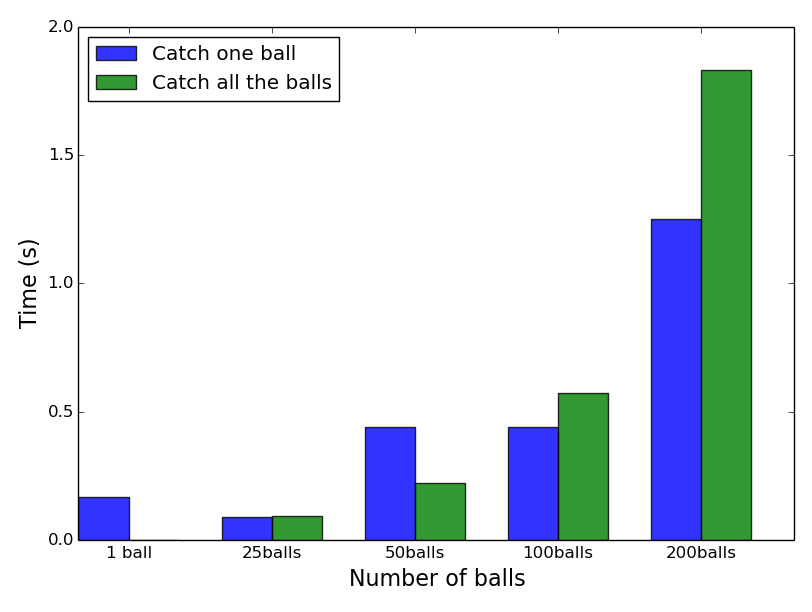
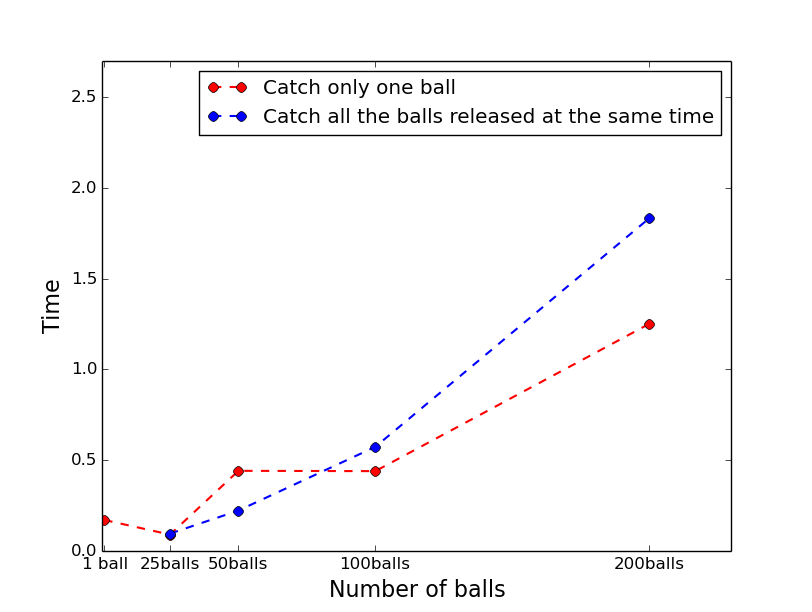
Michael's pass of the results section

diff --git a/results.tex b/results.tex
@@ -15,11 +15,11 @@ In this section we present our experimental results in four parts.
 
 We use our encoding to solve PDDL+ planning problems with a parallel iterative deepening technique, widely used in SAT-based planning approaches~\cite{nab02,rin06}. The top-level algorithm encodes and solves $n$ SMT encodings simultaneously, solving the planning problem for horizon lengths $1,2,3,4,...,n$. In this case, horizon length corresponds to number of happenings. If a formula is found satisfiable, then a plan has been found and the planner terminates. If a formula is found unsatisfiable, then an encoding is made for the next shortest horizon length, so that there are always $n$ SMT instances being solved. The SMT solver we use is z3~\cite{dem08}.
 
-We compare our approach (called SMTPlan) against existing PDDL+ planner UPMurphi~\cite{upmurphi}, and with dReach~\cite{bryce}, using the SMT solver dReal~\cite{gao12}, on domains both with and without events\footnote{We considered domains without events as we wanted to show the comparison with dReach which does not handle domains including events}. We use the \textit{generator} and \textit{car} domains~\cite{bogomolov14}. The experiments were run using 8GB of RAM and a 30 minute timeout. All test domains and problems are available at: \textit{kcl-planning.github.io/SMTPlan}.
+We compare our approach (called SMTPlan) against existing PDDL+ planner UPMurphi~\cite{upmurphi}, and with dReach~\cite{bryce}, using the SMT solver dReal~\cite{gao12}, on domains both with and without events\footnote{We considered domains without events as we wanted to show the comparison with dReach which does not handle domains including events.}. We use the \textit{generator} and \textit{car} domains~\cite{bogomolov14}. The experiments were run using 8GB of RAM and a 30 minute timeout. All test domains and problems are available at: \textit{kcl-planning.github.io/SMTPlan}.
 
-The generator domain is a PDDL+ benchmark problem that revolves around refueling a diesel-powered generator, which has to run for a given duration without overflowing or running dry. To test scalability the number of tanks is increased while decreasing the initial fuel level.
+The generator domain is a PDDL+ benchmark problem that revolves around refueling a diesel-powered generator, which has to run for a given duration without overflowing or running dry. To test scalability the number of tanks is increased while decreasing the initial fuel level, so that all tanks are required.
 
-We consider four versions of this domain: linear, simplified-nonlinear (the same used in ~\cite{bryce}), nonlinear with events, and the Torricelli nonlinear~\cite{howey2003val}. Note that the latter version uses the Torricelli's Law (which is too complex for dReach), and hence the fuel level in a refueling tank ($V_{fuel}$) is calculated by:
+We consider four versions of this domain: linear, simplified-nonlinear (the same used in~\cite{bryce}), nonlinear with events, and the Torricelli nonlinear~\cite{howey2003val}. Note that the latter version uses the Torricelli's Law, and hence the fuel level in a refueling tank ($V_{fuel}$) is calculated by:
 
 \begingroup\makeatletter\def\f@size{10}\check@mathfonts
 \begin{equation}
@@ -45,15 +45,13 @@ where $V_{init}$ is the initial volume of fuel in the tank, $k$ is the fuel flow
 The car domain is another PDDL+ benchmark~\cite{pddl+} where a vehicle has to cover a given distance and have a zero velocity at the end, and the actions available are accelerate and decelerate that increments or decrements by 1 the current velocity, respectively.
 To test scalability, the bound on maximum acceleration/deceleration is increased.
 
-Our results for solvable instances are reported in Table~\ref{tab:solvable}. On both linear and nonlinear domains, SMTPlan outperforms all other planners in time to solve and in number of instances solved. In all domains, SMTPlan scales very well. For these domains, the number of happenings required is small, thus the minimal SMT encoding required to solve the problem is also small. The iterative deepening algorithm is able to reach a satisfiable encoding, and produce a plan very quickly. The offline computation with SymPy is required only once per domain, and in all cases required 0.3 seconds or less.
+Our results for solvable instances are reported in Table~\ref{tab:solvable}. On both linear and nonlinear domains, SMTPlan outperforms all other planners in time to solve and in number of instances solved. In all domains, SMTPlan scales very well. For these domains, the number of happenings required is small, thus the minimal SMT encoding required to solve the problem is also small. The iterative deepening algorithm is able to reach a satisfiable encoding, and produce a plan very quickly. The offline computation with {\sc piranha} is required only once per domain, and in all cases requires 0.3 seconds or less.
 
-dReach also performs iterative deepening, but performs more poorly. This is due to the semantics of dReach; in the dReach domain and problem description, each mode of continuous change must be explicitly defined, and the number of modes increases exponentially with the number of processes and durative actions (eg. the files for 1, 2, 3 and 4 tanks problems are respectively 91, 328, 1350, 5762 lines long). Furthermore, the bound is not on the number of happenings, but on the number of mode changes, which does not allow for parallel execution of actions.
+dReach also performs iterative deepening, but performs more poorly. This is due to the semantics of dReach; in the dReach domain and problem description, each mode of continuous change must be explicitly defined, and the number of modes increases exponentially with the number of processes and durative actions (eg. the files for 1, 2, 3 and 4 tanks problems are respectively 91, 328, 1350, 5762 lines long). Furthermore, the bound is not on the number of happenings, but on the number of mode changes, which does not allow for parallel execution of actions. In contrast to SMTPlan, dReach does not perform integration and differentiation during encoding. Instead it relies upon the more expressive logic of the internal SMT solver, dReal. As a result, it is unable to use other SMT solvers.
 
-Moreover, dReach does not perform integration and differentiation outside of the solver, during encoding. Instead it relies upon the more expressive logic of the internal SMT solver, dReal, at the cost of extra computation time. In addition, they are unable to use SMT solvers other than dReal.
+We also compare our encoding directly against dReach as reported in prior work~\cite{bryce}: reporting times to solve only the encoding of a minimal step plan for each instance (Table~\ref{tab:finalstep}). These are not the times required to solve a PDDL+ instance, but a direct comparison of encodings on satisfiable problems. We find the encodings exhibit similar performance in the car domain. However, we find the SMTPlan encoding scales far better on the generator problem, for the reasons discussed above.
 
-We also compare our encoding directly against dReach as reported in prior work~\cite{bryce}: reporting times to solve only the encoding of a minimal step plan for each instance (table~\ref{tab:finalstep}). These are not the times required to solve a PDDL+ instance, but a direct comparison of encodings on satisfiable problems. We find the encodings exhibit similar performance in the car domain. However, we find the SMTPlan encoding scales far better on the generator problem, as discussed above. Moreover, the SMTPlan encoding does not require the advanced features of dReal, and can be solved more quickly using z3.
-
-Our results for unsolvable instances are shown in table~\ref{tab:unsolvable}. SMTPlan and dReach can only prove unsolvability up to an upper bound on the number of happenings. Here we prove plan non-existence for domains which have a tight deadline, and where each ground action can only be applied a finite number of times. We also include SpaceEx that can be used to prove plan-non existence for the generator linear domain~\cite{bogomolov14}. We observe that both totally ordered planning approaches perform well proving unsolvability in the car domain. There are few choices of symbolic plan in this domain, leaving only the timing of the happenings and numeric constraints to be solved. Both SMTPlan and dReach solve these constraints very quickly. However, for PDDL+ problems in general, without deadlines and with repeatable actions, proving unsolvability is difficult through totally ordered planning with iterative deepening.
+Our results for unsolvable instances are shown in Table~\ref{tab:unsolvable}. SMTPlan and dReach can only prove unsolvability up to an upper bound on the number of happenings. Here we prove plan non-existence for domains which have a tight deadline, and where each ground action can only be applied a finite number of times. We observe that both totally ordered planning approaches perform well proving unsolvability in the car domain. There are few choices of symbolic plan in this domain, leaving only the timing of the happenings and numeric constraints to be solved. Both SMTPlan and dReach solve these constraints very quickly. However, for PDDL+ problems in general, without deadlines and with repeatable actions, proving unsolvability is difficult through totally ordered planning with iterative deepening.
 
 \begin{table*}[ht]
 \centering
@@ -94,6 +92,31 @@ Domain         & Tool      & 1    & 2    & 3    & 4    & 5    & 6    & 7    & 8 
 
 \begin{table*}[ht]
 \centering
+\def\arraystretch{1.1}
+\begin{tabular}{|l|l|cccccccc|}
+\hline
+Domain         & Tool      & 1     & 2    & 3    & 4    & 5    & 6    & 7     & 8     \\
+\hline
+
+\multirow{2}{*}{\parbox{6em}{Generator linear}}
+               & SMTPlan  & 0.00  & 0.01  & 0.01   & 0.01   & 0.01 & 0.02 & 0.02  & 0.02  \\
+               & dReach    & 2.73  & 13.47 & 104.61 & 695.70 & -    & -    & -     & -     \\
+\hline \hline
+\multirow{2}{*}{\parbox{6em}{Generator nonlinear}}
+               & SMTPlan  & 0.01  & 0.01    & 0.01 & 0.01   & 0.01 & 0.01 & 0.01  & 0.01 \\
+               & dReach    & 10.42 & 1685.35 & -    & -      & -    & -    & -     & -    \\
+\hline \hline
+\multirow{2}{*}{\parbox{6em}{Car}}
+               & SMTPlan  & 0.00  & 0.00 & 0.00 & 0.00 & 0.00 & 0.00 & 0.00 & 0.00  \\
+               & dReach    & 0.77  & 0.76 & 0.76 & 0.76 & 0.76 & 0.76 & 0.77 & 0.76  \\
+\hline
+\end{tabular}
+\caption{Results in seconds for minimal step encoding required to solve each instance.}
+\label{tab:finalstep}
+\end{table*}
+
+\begin{table*}[ht]
+\centering
 \def\arraystretch{1.2}
 \begin{tabular}{|l|l|cccccccc|}
 \hline
@@ -129,44 +152,18 @@ Domain         & Tool      & 1    & 2      & 3     & 4    & 5      & 6    & 7   
 \label{tab:unsolvable}
 \end{table*}
 
-\begin{table*}[ht]
-\centering
-\def\arraystretch{1.1}
-\begin{tabular}{|l|l|cccccccc|}
-\hline
-Domain         & Tool      & 1     & 2    & 3    & 4    & 5    & 6    & 7     & 8     \\
-\hline
-
-\multirow{2}{*}{\parbox{6em}{Generator linear}}
-               & SMTPlan  & 0.00  & 0.01  & 0.01   & 0.01   & 0.01 & 0.02 & 0.02  & 0.02  \\
-               & dReach    & 2.73  & 13.47 & 104.61 & 695.70 & -    & -    & -     & -     \\
-\hline \hline
-\multirow{2}{*}{\parbox{6em}{Generator nonlinear}}
-               & SMTPlan  & 0.01  & 0.01    & 0.01 & 0.01   & 0.01 & 0.01 & 0.01  & 0.01 \\
-               & dReach    & 10.42 & 1685.35 & -    & -      & -    & -    & -     & -    \\
-\hline \hline
-\multirow{2}{*}{\parbox{6em}{Car}}
-               & SMTPlan  & 0.00  & 0.00 & 0.00 & 0.00 & 0.00 & 0.00 & 0.00 & 0.00  \\
-               & dReach    & 0.77  & 0.76 & 0.76 & 0.76 & 0.76 & 0.76 & 0.77 & 0.76  \\
-\hline
-\end{tabular}
-\caption{Results in seconds for minimal step encoding required to solve each instance.}
-\label{tab:finalstep}
-\end{table*}
-
 \subsection{Free Fall and Generator}\label{sec:eval_objects}
 
-Furthermore we designed two new sets of experiments. The first experiment evaluates the effects of having multiple objects in the domain file. 
+Two experiments were designed to explore the performance of SMTPlan on PDDL+ domains in more detail.
 
-\smallskip
+The first experiment evaluates the effects of having multiple objects in the domain file. The \textit{Free Fall} problem was extended, such that we consider problem instances where we have more than one ball. We considered two scenarios for these problem instances. In both scenarios we create cases that include 25, 50, 100, and 200 balls.
+In the first scenario we try to find plans for the goal of catching just the first ball. As we increase the number of balls in the problem file, the search space grows exponentially. However, as shown in Figure~\ref{fig:Picture1}, the time needed to solve the problem increases only linearly. 
+% (Any evidence for this?) SMTPlan focuses on variables related to the objects from the problem file that are involved in the goal state and tries to find the assignments for them. In other word, it also propagates the search branches regarding the variables that are representing other objects that are not in the goal state.
+% (Really?) This means SMTPlan notices that the SMT variables related to the object that is in the goal state is the critical on and tries to solve them and propagate the other variables of the other objects. 
+In the second scenario we continued the experiments by changing the goal state to catch all the balls in the problem file (we considered all the balls have the same initial height and we want to catch all of them at a certain height). Figure~\ref{fig:Picture1} shows the trend of the total time needed to solve the problem is linear in the number of balls. All the plans obtained from SMTPlan suggest to release all the balls together and also catch all of them at the same time point. This results from the fact that SMTPlan tries to solve the problem with minimum number of happenings.
+% \footnote{As it is mentioned in Section~\ref{sssec:SMTPlan_Archi}, SMTPlan starts to find a plan with an initial number of happening which can be defined for it (otherwise it starts with two happening. If it can not find a plan it increases the number of happenings and this increase can be by one or a step size that can be defined for the planner. If we run the SMTPlan with the initial number of happenings of two and define that step size as one, the planner finds a planner with the minimum number of happenings, if the problem is solvable.}.  
 
-For this mean we have expanded the \textit{Free Fall} problem and considered problem instances where we have more than one ball in our problem file.  
-
-We considered two scenarios for these problem instances. In both scenario we increase the number of balls in the problem file. We create cases that include 25,50 ,100 and 200 balls. In the first scenario we try to find a plan for a set of problem instances while the goal state is to catch just the first ball. As we can see in Figure~\ref{fig:Picture1}, as we increase the number of balls in the problem file, the time needed to solve the problem increases linearly. However, by increasing the number of balls, the search space grows exponentially. SMTPlan focuses on variables related to the objects from the problem file that are involved in the goal state and tries to find the assignments for them. In other word, it also propagates the search branches regarding the variables that are representing other objects that are not in the goal state.
-
-%This means SMTPlan notices that the SMT variables related to the object that is in the goal state is the critical on and tries to solve them and propagate the other variables of the other objects. 
-
-In the second scenario we continued the experiments by changing the goal state to catch all the balls in the problem file (we considered all the balls have the same initial height and we want to catch all of them at a certain height). Figure~\ref{fig:Picture1} indicates the results of catching all the balls in the cases we used before. As it is shown the trend of the total time needed to solve the problem is linear. All the plans obtained from SMTPlan suggest to release all the balls together and also catch all of them at the same time point. This is resulted from the fact that SMTPlan tries to solve the problem with minimum number of happenings. Similar to the previous case, the search space grows exponentially, however this growth affects our solving time linearly as the SMTPlan tries to solve the problem with minimum number of happenings \footnote{As it is mentioned in Section~\ref{sssec:SMTPlan_Archi}, SMTPlan starts to find a plan with an initial number of happening which can be defined for it (otherwise it starts with two happening. If it can not find a plan it increases the number of happenings and this increase can be by one or a step size that can be defined for the planner. If we run the SMTPlan with the initial number of happenings of two and define that step size as one, the planner finds a planner with the minimum number of happenings, if the problem is solvable.}.  
+These cases highlight that SMTPlan scales well with respect to the number of objects in the problem instance. While it is true that increasing the number of objects often will also increase the minimum number of required happenings, the iterative deepening search of SMTPlan will attempt to perform some parallelism of actions, if possible.
 
 \iffalse
 \begin{figure}[tbp!]
@@ -188,30 +185,30 @@ In the second scenario we continued the experiments by changing the goal state t
 
 \begin{figure}[!ht]
 \centering
-\includegraphics[width=0.80\textwidth]{diagrams/Balls.png}
-\caption{The bar chart compares the time taken for SMTPlan to solve the free fall problem. The blue bars indicate the scenarios that we have 1,25,50,100 and 200 balls and the aim of the problem is to just catch the first call. The green bars represents the scenarios that we have 25,50,100 and 200 balls and the goal is to catch all of them.}
+\includegraphics[width=0.70\textwidth]{diagrams/Balls.png}
+\caption{The time taken (in seconds) for SMTPlan to solve the free fall problem with 1, 25, 50, 100 and 200 balls. The red line indicates the scenario in which and the aim of the problem is to just catch the first ball. The blue line represents the scenario with the goal is to catch all of them.}
 \label{fig:Picture1}
 \end{figure}
 
-We also tested the performance of the SMTPlan when we have domains with actions that have longer time horizon. For this mean we used two different generator domains and generated a number of problems when the capacity of the generator and the running time of it increase gradually. In the initial problem the running time of the generator is $\num{1.000}$ time units, however we tested problems where the generator's running times has increased up to $\num{20.000}$ with the increments of $\num{1.000}$ time units. As we wanted to test the effects of the time horizon on the planner, we also changed the initial amount of the fuel in the tank, so the number of times that we need to apply the re-fuelling action remains the same. In other words, just the length of the re-fuelling process has been extended. As you can see in Figures~\ref{fig:Picture4} and ~\ref{fig:Picture3}, we have done the test both using SMTPlan and DiNo. SMTPlan has shown that the time to find a plan is not related to the time horizon of the actions (as we increase the time horizon the time needed to to find the plan for SMTPln remains the same). However, as we increase the time horizon, DiNo needs longer time to solve the problem. This can be explained by the fact that, DiNo needs to discretised the time and as we have a longer time horizon the search space grows and the planner needs more time to find the plan. On the other hand for the SMTPlan, since the number of the happenings are the same, increasing the time horizon won't change anything for the SMTPlan and for this reason it is able to find the plan in the same time.  
+The second experiment tested the scaling performance of SMTPlan with respect to a longer time horizon. A number of problems were generated for the \textit{generator} domain in which the capacity and the running time of the generator increases gradually. In the benchmark problems the running time of the generator is $\num{1.000}$ time units. We created problems where the generator's running times has increased up to $\num{20.000}$ with increments of $\num{1.000}$ time units. To test the effects of the time horizon on the planner, we also changed the initial amount of the fuel in the tank, so that the number of times that we need to apply the re-fuelling action remains the same. In other words, just the length of the re-fuelling process has been extended.
+The problems were solved with both SMTPlan and DiNo. 
+As shown in Figures~\ref{fig:Picture4} and~\ref{fig:Picture3}, the time taken by SMTPlan to find a plan is not related to the time horizon. However, as we increase the time horizon, DiNo needs a longer time to solve the problem. As a forward search planner, the duration of the plan greatly impacts the performance of DiNo, and impacts the choice of discretisation that it can use. On the other hand, since the number of the happenings are the same, increasing the plan duration does not affect SMTPlan.
 
 \begin{figure}[tbp!]
 \centering
 \begin{subfigure}[b]{0.49\textwidth}
-\includegraphics[width=0.80\textwidth]{Generator_event.png}
+\includegraphics[width=0.99\textwidth]{diagrams/gen_event.png}
 \caption{}
 \label{fig:Picture4}
 \end{subfigure}
 \hfill
 \begin{subfigure}[b]{0.48\textwidth}
-\includegraphics[width=0.80\textwidth]{Generator_linear.png}
+\includegraphics[width=0.99\textwidth]{diagrams/gen_linear.png}
 \caption{}
 \label{fig:Picture3}
 \end{subfigure}
-\caption{Generator domain with (a)events/ (b)linear continuous changes with different time horizons}
+\caption{Generator domain with (a) nonlinear change and events and (b) only linear change, with increasing time horizon.}
 \end{figure}
-
-
 
 \iffalse
 \begin{figure}[!ht]
@@ -223,10 +220,12 @@ We also tested the performance of the SMTPlan when we have domains with actions 
 \fi
 \subsection{Temporal Domains}\label{sec:eval_pddl21}
 
-For the sake of completeness, we also tested the SMTPlan on the temporal domains that are used in the temporal track at ICAPS 2018. The results are shown in Table~\ref{tab:ipc result}. We compared the SMTPlan with the other planners participated in this track. These planners are CP4TP  ~\cite{cp4tp}, TFLAP  ~\cite{tflap}, TemPorAl  ~\cite{temporal}, PopCorn  ~\cite{popcorn} and OPTIC  ~\cite{OPTIC}. 
+For the sake of completeness, and to investigate the scaling performance of SMTPlan with respect to the size of the discrete search space, we also tested the SMTPlan on the domains that were used in the temporal track of the International Planning Competition (IPC) at ICAPS 2018.
+We compared the SMTPlan with the other planners participated in this track. These planners are CP4TP~\cite{cp4tp}, TFLAP~\cite{tflap}, TemPorAl~\cite{temporal}, PopCorn~\cite{popcorn} and OPTIC~\cite{OPTIC}. 
+In total 10 domains were chosen. For each domain the first 10 problem instances were passed to the planner to solve. Each planner was given 30 minutes and 8GB of memory to solve as many problems as possible. The results are shown in Table~\ref{tab:ipc result}.
+Each number in the table indicates the number of problem instances that each planner has managed to solve. In each row the largest number of problems for that domain solved by a single planner is shown in bold. 
 
-The time given to each planner was 30 minutes and 8GB of memory. In total 10 domains have been chosen and for each domain 10 problem instances have been selected. Each number in the table indicates the number of problem instances that each planner has managed to solve. At each raw, for each domain, the maximum number of problems that is solved is shown in bold. 
-
+As can be seen in the table, the performance gap between SMTPlan and temporal planners, on temporal planning problems, is large. While SMTPlan is highly effective on PDDL+ problems with nonlinear change and a small discrete search space, the large discrete search space for temporal planning problems is often insurmountable. One exception is the \textit{Cushing} domain, in which SMTPlan performed the best. This domain has a high degree of required concurrency, and can be difficult for other planning approaches, such as forward search. In addition, it allows for a great amount of parallelism of actions, therefore allowing SMTPlan to scale easily to all of the problem instances considered.
 
 
 \begin{table}[thb]
@@ -253,18 +252,15 @@ Total              & 100 & 12          & 74          & 55          & \textbf{76}
 
 \subsection{Domains with Control Parameters}\label{sec:eval_cp}
 
-In this section we have designed a set of experiments to show how introducing control parameters affects the performance of SMTPlan. We used the \textit{cashpoint} domain for this experiments. We did the same experiments using two different types of the same domain; one domain including control parameter variables and the other one without. For both domains we considered a set of problem instances that get more difficult gradually. We increased the difficulty of the problems in two ways: first, by adding new objects in the problem file; and second, by considering scenarios in which we have more actions in the domain file and in order to reach the goal we need to apply these new actions. 
+In this section we have designed a set of experiments to show how introducing control parameters affects the performance of SMTPlan. We used the \textit{cashpoint} domain for these experiments, solving problems with SMTPlan on two different variants of the domain: one including control parameter variables and the other one without. For both domains we considered a set of problem instances that get more difficult gradually. We increased the difficulty of the problems in two ways: first, by adding new objects in the problem file; and second, by considering scenarios in which we have more actions in the domain file and in order to reach the goal we need to apply these new actions. 
 
+A set of problem instances was created with the goal to have a specific amount of money, indicated by the variable  $(inpocket \ pounds)$ in the goal state. The goal increases from $( = (inpocket \ pounds)\  10) $  to  $( = (inpocket \ pounds)\ 100)$ in increments of 10.
+\textcolor{red}{Moreover, in order to make more difficult problems, the number of objects in each problem file is increased. We first start the problems with just one bank, then increase them to 6 banks. For all the experiments in this section, we have used these set of benchmarks.}
 
-First we create a set of problem instances. The goal of all these problem files is to have a specific amount of money, which is indicated by the variable  $(inpocket \ \ pounds)$ in the goal state. We have started from $( = (inpocket \ \ pounds) 10) $ and with increments of 10 unites and it reaches to  $( = (inpocket \ \ pounds) 100) $. Moreover, in order to make more difficult problems, the number of objects in each problem file is increased. We first start the problems with just one bank, then increase them to 6 banks. For all the experiments in this section, we have used these set of benchmarks. 
-
-We also added more propositions to the goal state, which leads to plans with more actions. The goal of the first scenario is just to withdraw money. Then, we gradually make increase the difficulty of the domain by adding new actions. The next considered scenario is a domain in which we need to go from home to bank and then withdraw money. For the third case we considered that we need to go to the pub at the end and in the last scenario we need to go the supermarket and get some snacks as well. 
-
-%In the first scenario, the goal was to have specific amount of money and for this we just need to apply one type of action $(withdraw\_money)$. Then we run the same domain for several problems and increased the objects in each problem instance (we increased the number of banks in each problem and also designed the problem in the way that in order to have enough $(inpocket \ \ pounds)$ we need to withdraw from all the banks). Then we made the problem harder in the second scenario by adding a new goal that we are at home and we want to have specific amount of money. In order to achieve the goal we need to apply two actions $(go\_to)$ and $(withdraw\_money)$. Then we run them with the same set of problems that was getting hard gradually. Then for the third scenario, we changed the problem file and added a new proposition to the goal that we need to be at pub at the end. Then at the 4th, 5th and 6th scenarios we add the facts that we need to buy snacks, drinks and shoes from supermarket gradually and run them with the same set of problems. 
-
-
-
-The result for these experiments are shown in ~\ref{fig:CP_results}. The $y$ axis shows the results of the experiments for domains without control parameters and the $x$ axis is for domains with control parameters. The time given to the solver for these set of experiments was 3600 seconds. As we can see on the graph, the time to solve the problems without control parameters are much longer compare to the domains with control parameters. 
+\textcolor{red}{We also added more propositions to the goal state, which leads to plans with more actions. The goal of the first scenario is just to withdraw money. Then, we gradually make increase the difficulty of the domain by adding new actions. The next considered scenario is a domain in which we need to go from home to bank and then withdraw money. For the third case we considered that we need to go to the pub at the end and in the last scenario we need to go the supermarket and get some snacks as well.
+%In the first scenario, the goal was to have specific amount of money and for this we just need to apply one type of action $(withdraw\_money)$. Then we run the same domain for several problems and increased the objects in each problem instance (we increased the number of banks in each problem and also designed the problem in the way that in order to have enough $(inpocket \ pounds)$ we need to withdraw from all the banks). Then we made the problem harder in the second scenario by adding a new goal that we are at home and we want to have specific amount of money. In order to achieve the goal we need to apply two actions $(go\_to)$ and $(withdraw\_money)$. Then we run them with the same set of problems that was getting hard gradually. Then for the third scenario, we changed the problem file and added a new proposition to the goal that we need to be at pub at the end. Then at the 4th, 5th and 6th scenarios we add the facts that we need to buy snacks, drinks and shoes from supermarket gradually and run them with the same set of problems. 
+The result for these experiments are shown in~\ref{fig:CP_results}. The $y$ axis shows the results of the experiments for domains without control parameters and the $x$ axis is for domains with control parameters. The time given to the solver for these set of experiments was 3600 seconds. As we can see on the graph, the time to solve the problems without control parameters are much longer compare to the domains with control parameters.
+Moreover, the number of problems that domain's with control parameters can solve is compared in Table~\ref{tab:table_results_cp}.}
 
 \begin{figure}[!ht]
 \centering
@@ -272,9 +268,6 @@ The result for these experiments are shown in ~\ref{fig:CP_results}. The $y$ axi
 \caption{The results of running SMTPlan for cashpoint example. The experiment compares the time taken to solve the cashpoint problems using two domains: (a) the domain without having control parameter variables (b) same domain with durative action which have control parameters}
 \label{fig:CP_results}
 \end{figure}
-
-
-Moreover, the number of problems that domain's with control parameters can solve is compared in Table ~\ref{tab:table_results_cp}.
 
 \begin{table}[!ht]
 \centering

diff --git a/ControlParameters.tex b/ControlParameters.tex
@@ -128,7 +128,7 @@ x_t:=\Bigg \langle
 \Bigg \rangle 
 $$
 
-By introducing the control parameter variables, the constraints over a happening are also extended in the following way. As explained before, the control parameters are bounded in the domain file. First, we define two sets of constant values associated with each control parameter as the upper bounds and lower bounds. The members of set $U_d$ are constants which define the upper bounds of control parameters at each happening (since these upper bounds will not change throughout different happenings, we do not need to define different upper bounds for each happening). Similar to the upper bounds, we define a set of lower bounds as $L_d$ for the control parameters. Figure ~\ref{eq:state2} shows the set of constraints within a happening in the case of having control parameters in the domain. The changes are shown in bold compared to Figure~\ref{eq:state}.
+By introducing the control parameter variables, the constraints over a happening are extended in the following way. As explained before, the control parameters are bounded in the domain file. First, two sets are defined $U_d$ and $L_d$. The members of set $U_d$ are constants which define the upper bounds of control parameters at each happening (since these upper bounds will not change in different happenings, we do not need to define different upper bounds for each happening). $L_d$ represents the set of lower bounds for the control parameters. Figure~\ref{eq:state2} shows the set of constraints within a happening in the case of having control parameters. The changes are shown in bold compared to Figure~\ref{eq:state}.
 
 \begin{figure*}[thb!]
 % \begin{minipage}[t]{0.58\linewidth}
@@ -190,11 +190,10 @@ By introducing the control parameter variables, the constraints over a happening
 \label{eq:state2}
 \end{figure*}
 
-Within a happening, the structure of most of the constraints remain the same. However we need to add the constraints associated with the lower and upper bounds of control parameters (shown in equations $H15$ and $H16$). These constraints state that when the action is applied, the control parameter is bounded by its constant upper and lower bounds $u_d\in U_d$ and $l_d \in L_d$, respectively.
+Within a happening, the structure of most of the constraints remain the same. However we need to add the constraints associated with the lower and upper bounds of control parameters (shown in equations $H15$ and $H16$). These constraints state that when the action is applied, the control parameter is bounded by its constant upper and lower bounds $u_d\in U_d$ and $l_d \in L_d$, respectively. In addition, control parameters can appear in the conditions or effect of a durative action. Therefore $H9$ and $H10$ are also affected by control parameters. The control parameter variables $d_t\in D_t$ can be used directly in these constraints.
 
-Moreover, control parameters can appear in the conditions or effect of a durative action. Therefore $H9$ and $H10$ are also affected by control parameters. These constraints model the conditions and effects of an action, which can include expressions involving control parameter variables. The control parameter variables $d_t\in D_t$ can be used directly in these constraints.
-
-Adding control parameters to durative actions also affects the encoding of the constraints between the happenings explained in section~\ref{sec:enc_problem}. Figure ~\ref{eq:plan2} shows these equations. The changes compared to Figure~\ref{eq:plan} are shown in bold.
+Adding control parameters to durative actions also affects the encoding of the constraints between the happenings explained in section~\ref{sec:enc_problem}. Figure~\ref{eq:plan2} shows these equations. The changes compared to Figure~\ref{eq:plan} are shown in bold.
+The only constraint added to the set of constraints between the happenings is \textit{control parameter support} constraint ($P12$). This constraint ensures that the value of a control parameter stays constant during the execution of the action. In P12, $dur_{ps^a_i}$ refers to the duration variable of the action $a$ containing the control parameter.
 
 \begin{figure*}[thb!]
 \begin{minipage}[t]{0.39\linewidth}
@@ -238,8 +237,6 @@ Adding control parameters to durative actions also affects the encoding of the c
 \caption{Reduction of PDDL+ planning problem with control parameters $\Pi+$ to SMT.}
 \label{eq:plan2}
 \end{figure*}
-
-The only constraint added to the set of encodings regarding the constraints between the happenings is \text{control parameter support} constraint ($P12$). This constraint ensures that the value of a control parameter stays constant during the execution of the action. In P12, $dur_{ps^a_i}$ refers to the duration variable of the action $a$ containing the control parameter.
 
 \subsection{Encoding of the cashpoint problem}
 

diff --git a/conclusion.tex b/conclusion.tex
@@ -1,7 +1,6 @@
 \section{Conclusion}\label{sec:conclusion}
 
-In this paper we presented a new approach for PDDL+ planning
-that can handle the whole set of PDDL+ features and
-respects Fox and Long’s semantics. We proposed an SMT encoding of PDDL+ domains that correctly captures the must semantics of PDDL+ which constrains how processes and events interact with each other and with actions. The encoding is general and can be used with any SMT solver in the theory of quantifier-free nonlinear arithmetic.
-
+In this paper we presented a new approach for PDDL+ planning that can handle the whole set of PDDL+ features, respecting Fox and Long’s semantics.
+The approach we proposed is an SMT encoding of PDDL+ domains that correctly captures the must semantics of PDDL+, which constrains how processes and events interact with each other and with actions. The encoding is general and can be used with any SMT solver in the theory of quantifier-free nonlinear arithmetic.
 Experimental results show that the approach dramatically outperforms existing work in finding plans for solvable problems, and it is efficient also in proving plan-non-existence.
+
